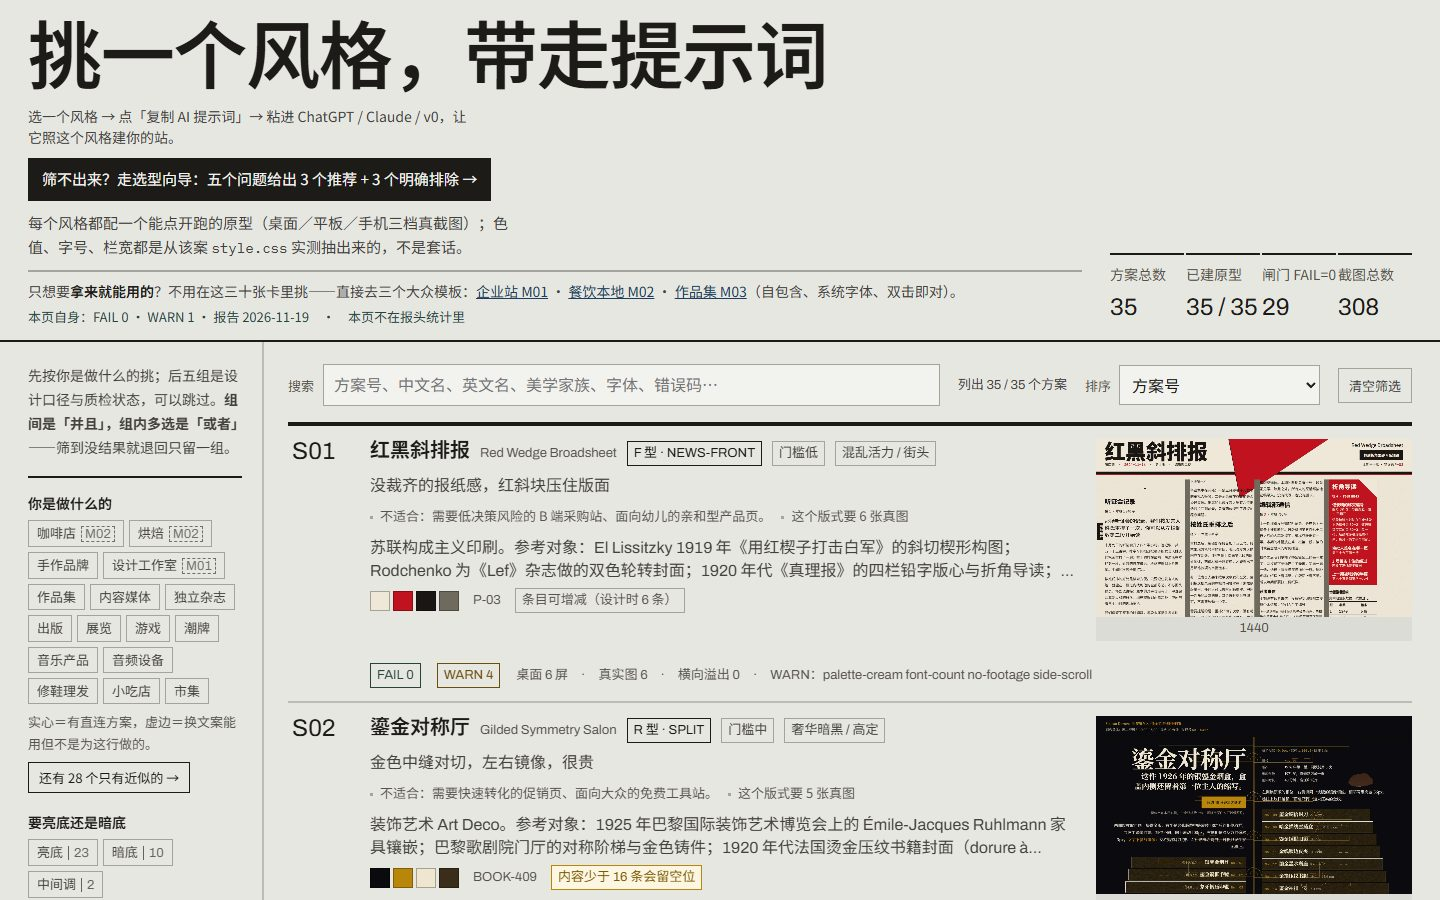
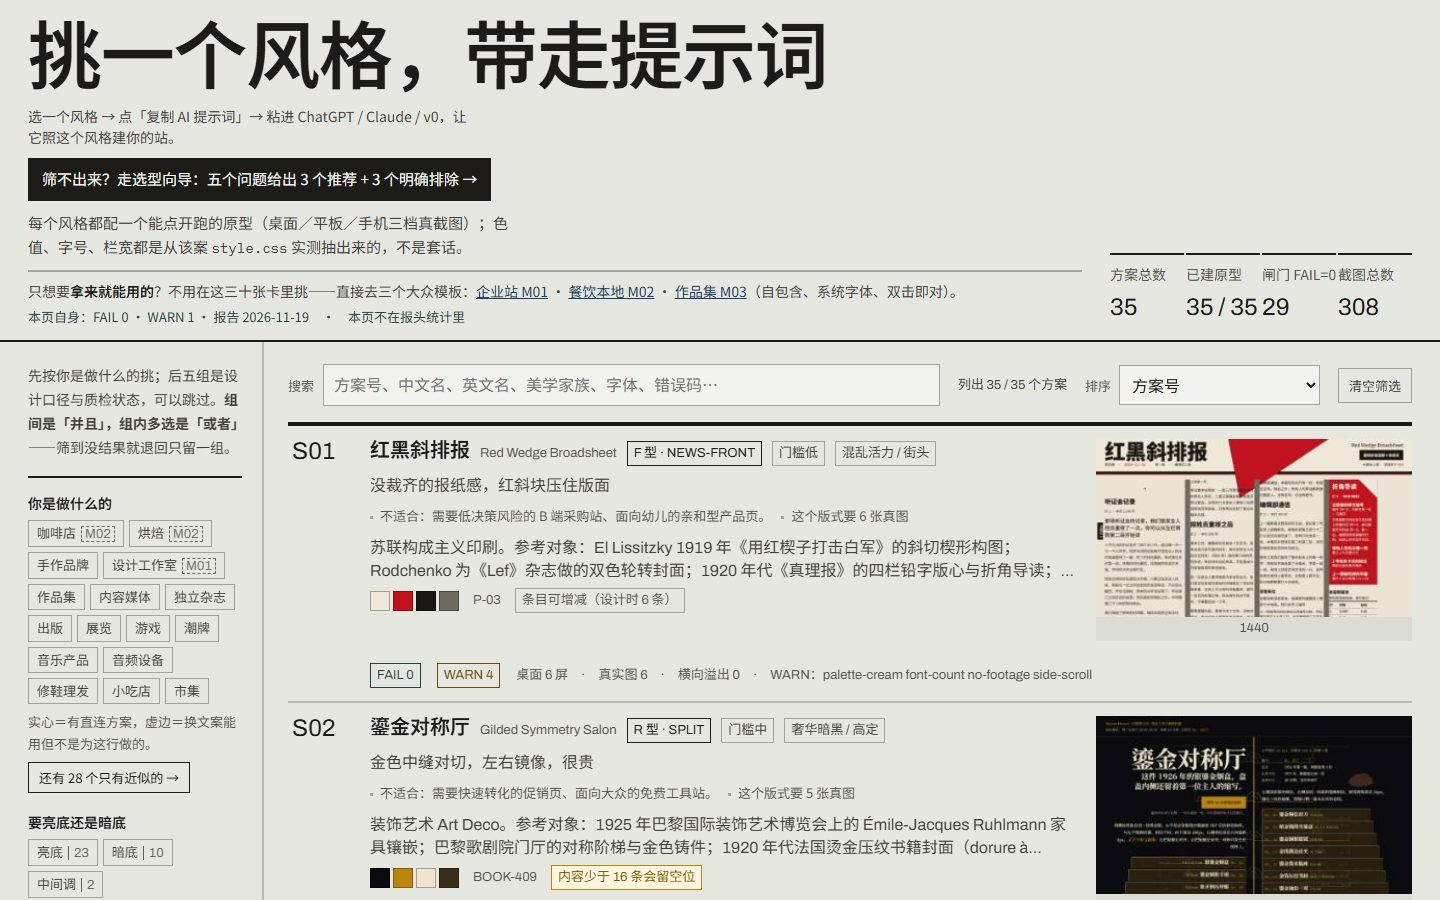
卡片改加载缩略图并恢复懒加载：首屏图片 5.03 MiB → 0.06 MiB
卡片缩略图实显 152×86 CSS px，@dpr2 需要 304×171；而它加载的是
1440×900 的原图——只用到 4.0% 的像素，超采样 4.7×。实测 35 张
合计 5.03 MiB（均 147 KB），而首屏只有 1 张完整卡可见。

同一处还有两件事长得很像但不同：
- 上一轮修掉了"隐藏的图"（60 张 display:none 却仍下载），顺手把
  `loading="lazy"` 变成了永不生效的三元——因为 shotFig 现在只生成
  desktop 一种，`vp === 'desktop' ? '' : ...` 恒为空串。35 张全部
  loading="auto"。
- 这一轮修掉"超采样的图"，并把懒加载恢复。

prototypes/_build/make-thumbs.mjs（新增）
- 为每案的 desktop-fold.jpg 生成 .thumb.jpg（宽 304，q72）。
- 零依赖：用仓库已有的 CDP 通道让 Chrome 自己解码→canvas 缩放→
  重编码。仓库铁律是不装图像库，装 sharp 会破坏它。
- --force / --check 两个开关；缺图时只跳过不报错。
- 实测 5.03 → 0.26 MiB（均 147 → 7.6 KB，19 倍）。

app.js
- shotFig 用 .thumb.jpg，带 data-full 回退（onerror 触发）。
  回退是故意的：缩略图是派生文件，新加一个案或清了 .inspect 时可能还没生成；
  加硬断言会让"新加案"变成两步操作，而漏一步的代价是卡片一片空白。
  浏览器端无法查文件是否存在，所以只能靠 onerror。
- lazy 恢复为恒定 'loading="lazy" decoding="async"'。

probe-ui.mjs（新增第 7b 条断言）
- card-uses-thumbnails：① 全部 img 是 .thumb.jpg；② 都有 data-full；
  ③ 全部 loading=lazy；④ 首屏实际下载 ≤12 张（全量 35 说明没懒加载）。
- 阈值取 12 而不是 7：视口高度影响预加载范围，不同机器 6–9 都出现过。
- 变异验证：把 src 改回全尺寸，断言报「卡片在加载全尺寸截图
  （超采样 4.7×，5.03 MiB）」。
- 原有的 no-hidden-screenshot-downloads 自动反映了改进：
  「35 行 / 35 张图 / 本次加载 7 张 / 隐藏 0」。

验证
- 首屏 7 张 0.06 MiB（改前 35 张 5.03 MiB，84 倍）；
  滚到底 14 张 0.10 MiB。
- 回退实测：删掉 S01 的缩略图 → 自动改用原图（0.10 → 0.35 MiB）。
- probe-ui 22 PASS / 0 FAIL；quarter 17 步全过；
  render-scheme FAIL=0 WARN=1（与基线一致）。

Changed region(s): [[0.75, 0.4667, 1.0, 0.6844], [0.7812, 0.8089, 0.9375, 0.9956]]

diff --git a/prototypes/_selection/app.js b/prototypes/_selection/app.js
@@ -595,8 +595,7 @@
     var src = (r.shots[vp] || [])[0];
     if (!src) {
       return '<figure class="shot is-empty"><figcaption>' + cap + ' 未渲染</figcaption></figure>';
-    }
-    /* 卡片上只留桌面一张（2026-11-04）。
+    }    /* 卡片上只留桌面一张（2026-11-04）。
      *
      * 原来这里生成三张（1440/768/390），但 style.css 的 `.shots .shot:not(:first-child){display:none}`
      * 把第 2、3 张永久藏起来 —— 于是 30 案 × 2 张 = **60 张图（4.84 MB）被下载给谁都不看**。
@@ -606,8 +605,37 @@
      * 原注释说不加 `loading="lazy"` 是为了让"页面里到底有没有图"这个指标不失真；
      * 但那段理由本身也写着 `_selection` 从不在闸门范围内（verify-prototype 只扫 /^S\d{2}-/）。
      * 真正该省的是这 4.84 MB。 */
-    var lazy = vp === 'desktop' ? '' : ' loading="lazy" decoding="async"';
-    return '<figure class="shot"><img src="' + esc(src) + '"' + lazy + ' alt="' + esc(r.id + ' ' + r.cn + ' 在 ' + cap + 'px 视口的首屏渲染截图') + '"><figcaption>' + cap + '</figcaption></figure>';
+    /* 卡片缩略图用缩略图变体，缺了回退原图（2026-11-05）。
+     *
+     * 卡片实显 152×86 CSS px，@dpr2 需要 304×171；而原图是 1440×900 ——
+     * 只用到 4.0% 的像素，超采样 4.7×。实测 35 张合计 5.03 MiB（均 147 KB）。
+     * 生成 `.thumb.jpg` 之后 0.26 MiB（均 7.6 KB），19 倍。
+     * 生成脚本：prototypes/_build/make-thumbs.mjs（零依赖，用 CDP 让浏览器
+     * 自己解码→缩放→重编码 —— 仓库铁律是不装图像库）。
+     *
+     * 回退是**故意的**，不是保守：
+     *   ① 缩略图是派生文件，可能还没生成（新加一个案、或有人清了 .inspect）；
+     *   ② 加一条"必须存在"的硬断言会让"新加案"变成两步操作，
+     *      漏一步的代价是卡片一片空白 —— 回退让漏跑只是慢，不是坏。
+     * 回退靠 onerror，因为**浏览器端无法查文件是否存在**：
+     * 静态站没有服务端，fetch+HEAD 既慢又会在 file:// 下失败。
+     *
+     * 懒加载（同一轮修的另一件事）：
+     * 原来这里是 `var lazy = vp === 'desktop' ? '' : ' loading="lazy"'` ——
+     * 但本函数现在**只生成 desktop 一张**，于是这个三元**恒为 ''**：
+     * 35 张图全部 `loading="auto"`，一张不懒加载。上一次为省流量做的改动
+     * （删掉 60 张被 display:none 的图）顺手让懒加载永不再生效，
+     * 而没人发现 —— 省下来的是"隐藏的图"，没省下来的是"超采样的图"，
+     * 两个问题长得很像但不是同一个。
+     * 现在卡片缩略图一律懒加载：它们全部在首屏之下（实测首卡 top 426），
+     * 没有一张是 LCP 元素。详情面板的 #stage 走 paintViewer 另一条路径。 */
+    var thumb = src.replace(/\.jpg$/i, '.thumb.jpg');
+    var lazy = ' loading="lazy" decoding="async"';
+    return '<figure class="shot"><img src="' + esc(thumb) + '"' + lazy +
+      ' data-full="' + esc(src) + '"' +
+      ' onerror="if(!this.dataset.fell){this.dataset.fell=1;this.src=this.dataset.full;}"' +
+      ' alt="' + esc(r.id + ' ' + r.cn + ' 在 ' + cap + 'px 视口的首屏渲染截图') + '">' +
+      '<figcaption>' + cap + '</figcaption></figure>';
   }
 
   /* ── 契约 §9.15 的豁免判定（2026-11-05）───────────────────────────────

diff --git a/prototypes/_selection/self-gate.js b/prototypes/_selection/self-gate.js
@@ -1,7 +1,7 @@
 // 由 render-scheme.mjs 生成，勿手改。选型台自身的闸门结果。
 // 生成时机：node prototypes/_build/render-scheme.mjs _selection
 window.SELECTION_REPORT = {
- "at": "2026-11-19T13:55:21.947Z",
+ "at": "2026-11-19T14:24:06.679Z",
  "findings": [
   {
    "level": "WARN",
